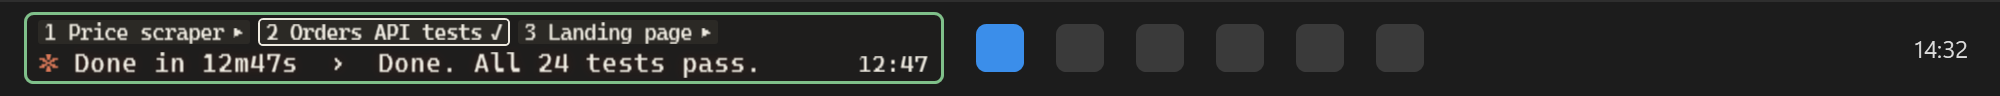
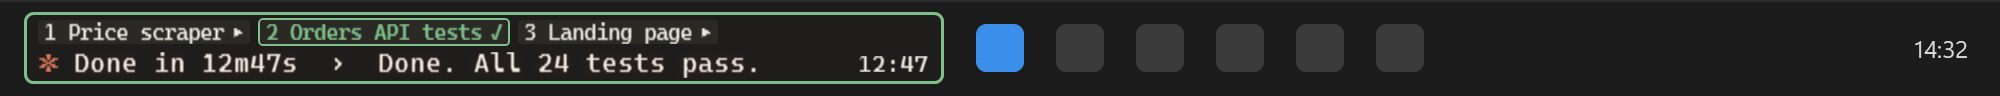
fix(panel): keep finished tabs steady green and outline the selected one (#18)
Finished tabs no longer blink; the panel halo alone blinks green.
The tab shown in the feed stays green when finished, with a green
outline, instead of turning white.

Changed region(s): [[0.124, 0.25, 0.248, 0.5], [0.124, 0.1875, 0.279, 0.2188]]

diff --git a/src/TaskbarLed.App/Panels/PanelView.xaml b/src/TaskbarLed.App/Panels/PanelView.xaml
@@ -115,21 +115,9 @@
         <DataTrigger Binding="{Binding Status}" Value="{x:Static s:SessionStatus.Running}">
           <Setter TargetName="TabText" Property="Foreground" Value="{DynamicResource Led.ForegroundBrush}" />
         </DataTrigger>
+        <!-- Finished: steady green. The panel's halo does the blinking; blinking tabs too was noise. -->
         <DataTrigger Binding="{Binding Status}" Value="{x:Static s:SessionStatus.Completed}">
           <Setter TargetName="TabText" Property="Foreground" Value="{DynamicResource Led.DoneBrush}" />
-          <DataTrigger.EnterActions>
-            <BeginStoryboard x:Name="TabDone">
-              <Storyboard RepeatBehavior="Forever" Timeline.DesiredFrameRate="10">
-                <DoubleAnimationUsingKeyFrames Storyboard.TargetName="Tab" Storyboard.TargetProperty="Opacity" Duration="0:0:1">
-                  <DiscreteDoubleKeyFrame KeyTime="0:0:0" Value="1" />
-                  <DiscreteDoubleKeyFrame KeyTime="0:0:0.5" Value="0.25" />
-                </DoubleAnimationUsingKeyFrames>
-              </Storyboard>
-            </BeginStoryboard>
-          </DataTrigger.EnterActions>
-          <DataTrigger.ExitActions>
-            <StopStoryboard BeginStoryboardName="TabDone" />
-          </DataTrigger.ExitActions>
         </DataTrigger>
         <DataTrigger Binding="{Binding Status}" Value="{x:Static s:SessionStatus.AwaitingInput}">
           <Setter TargetName="TabText" Property="Foreground" Value="{DynamicResource Led.AttentionBrush}" />
@@ -161,6 +149,15 @@
           </MultiDataTrigger.Conditions>
           <Setter TargetName="Tab" Property="BorderBrush" Value="{DynamicResource Led.AttentionBrush}" />
           <Setter TargetName="TabText" Property="Foreground" Value="{DynamicResource Led.AttentionBrush}" />
+        </MultiDataTrigger>
+        <!-- Selected and finished: keep the green, and outline it in green, so the selection does not turn it white. -->
+        <MultiDataTrigger>
+          <MultiDataTrigger.Conditions>
+            <Condition Binding="{Binding IsSelected}" Value="True" />
+            <Condition Binding="{Binding Status}" Value="{x:Static s:SessionStatus.Completed}" />
+          </MultiDataTrigger.Conditions>
+          <Setter TargetName="Tab" Property="BorderBrush" Value="{DynamicResource Led.DoneBrush}" />
+          <Setter TargetName="TabText" Property="Foreground" Value="{DynamicResource Led.DoneBrush}" />
         </MultiDataTrigger>
       </DataTemplate.Triggers>
     </DataTemplate>

diff --git a/CLAUDE.md b/CLAUDE.md
@@ -57,7 +57,7 @@ Release: push a tag `vX.Y.Z`; `.github/workflows/release.yml` builds, tests and 
 
 ## Status
 
-- Released: `v1.3.0` (Windows x64, framework-dependent, unsigned).
+- Released: `v1.3.1` (Windows x64, framework-dependent, unsigned).
 - Versions: `MAJOR.MINOR.PATCH`. PATCH for fixes, MINOR for new features, and 2.0 only for a real new generation of the app. The tag is the version: the release workflow stamps it into the binaries and publishes a SHA-256 next to the zip. Local builds say `0.0.0-dev`. (v1.0.0 and v1.1.0 were built before this and say 1.0.0.)
 - Supported: Windows 10 and 11. Tested by hand only on the maintainer's Windows 11; Windows 10, a taskbar on another edge and ARM64 are not verified.
 - macOS: step 1 of P4 is done and CI's `macos` job passes (pure tests, headless render, `osx-arm64` publish). No live events, menu, settings or release artifact yet. The maintainer has no Mac, so nothing has run on a real one.
